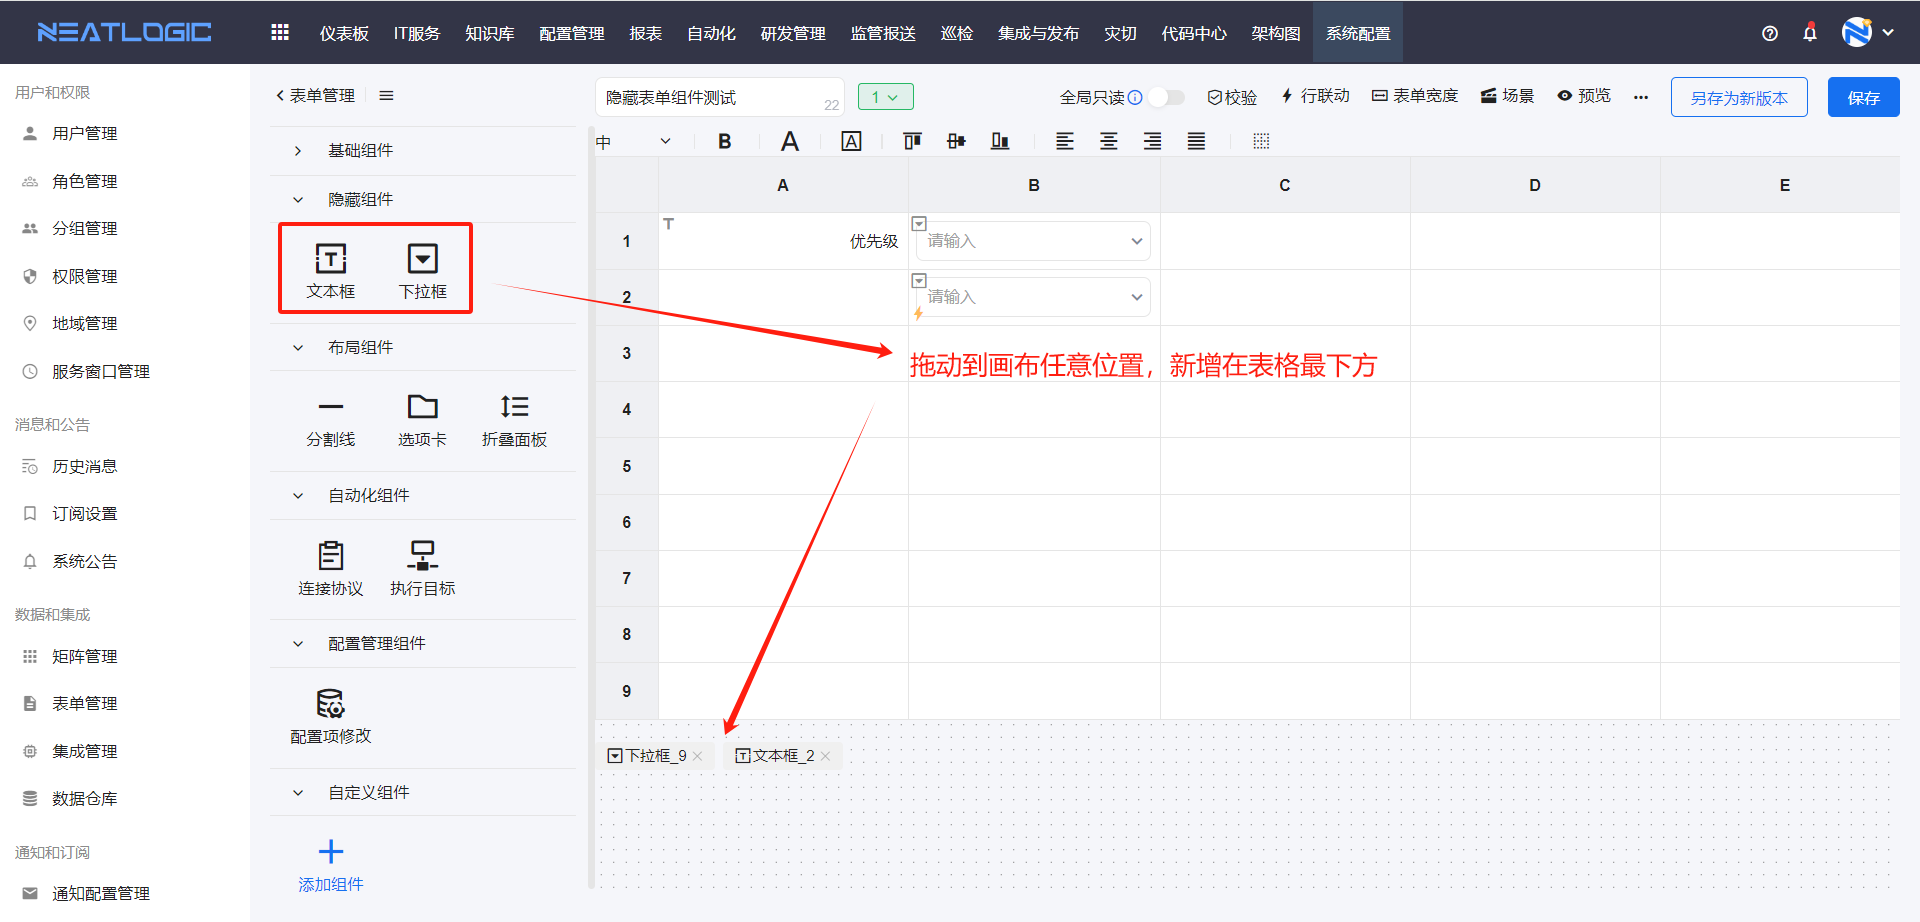
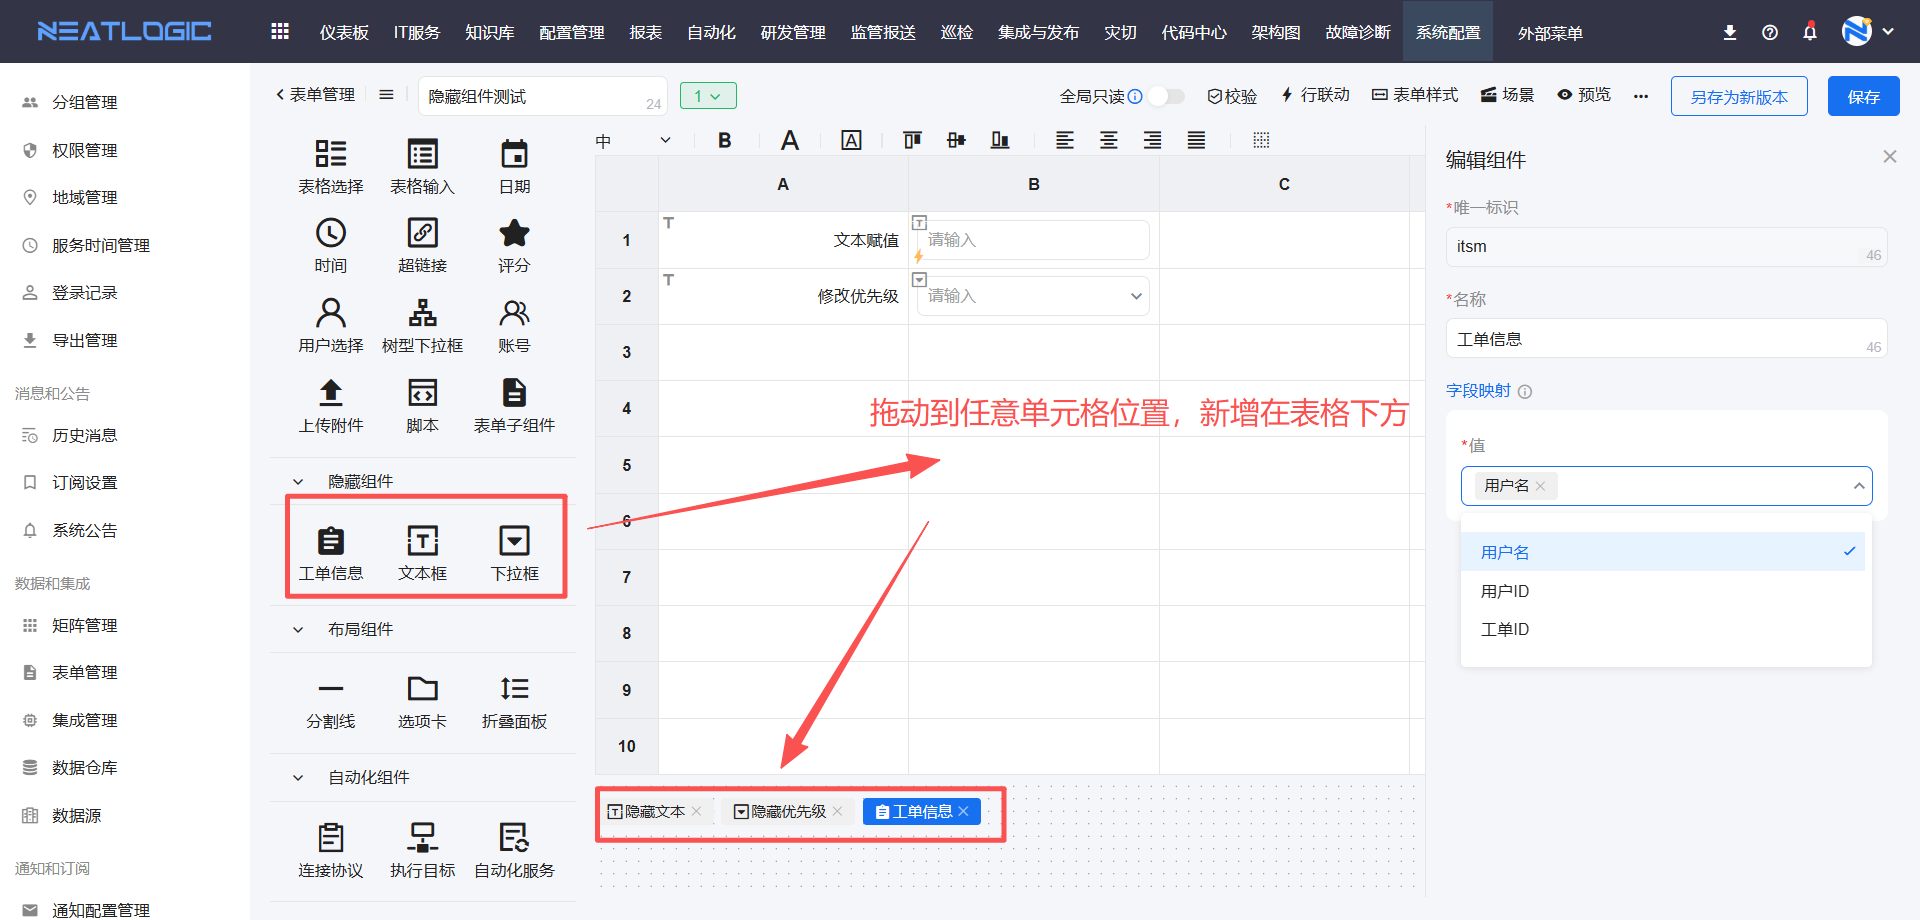
更新文档

diff --git a/src/main/resources/neatlogic/resources/documentonline/zh/100.系统配置/3.数据和集成/表单管理.md b/src/main/resources/neatlogic/resources/documentonline/zh/100.系统配置/3.数据和集成/表单管理.md
@@ -136,7 +136,7 @@
 
     表单应用时，隐藏组件只能用于赋值和数据消费，通过组件联动实现赋值，组件始终隐藏无需编辑。
     ![](images/表单管理_隐藏组件.png)
-    隐藏上报人组件是在工单上报时获取上报人字段的值，隐藏下拉框、文本框与基础组件中的下拉框、文本框配置基本一样，但隐藏组件的联动配置只保留了过滤、赋值和触发。
+    隐藏表单信息组件是在工单上报时获取工单信息的值，包括用户名、用户ID、工单ID。隐藏下拉框、文本框与基础组件中的下拉框、文本框配置基本一样，但隐藏组件的联动配置只保留了过滤、赋值和触发。
 
 12. 脚本
     
